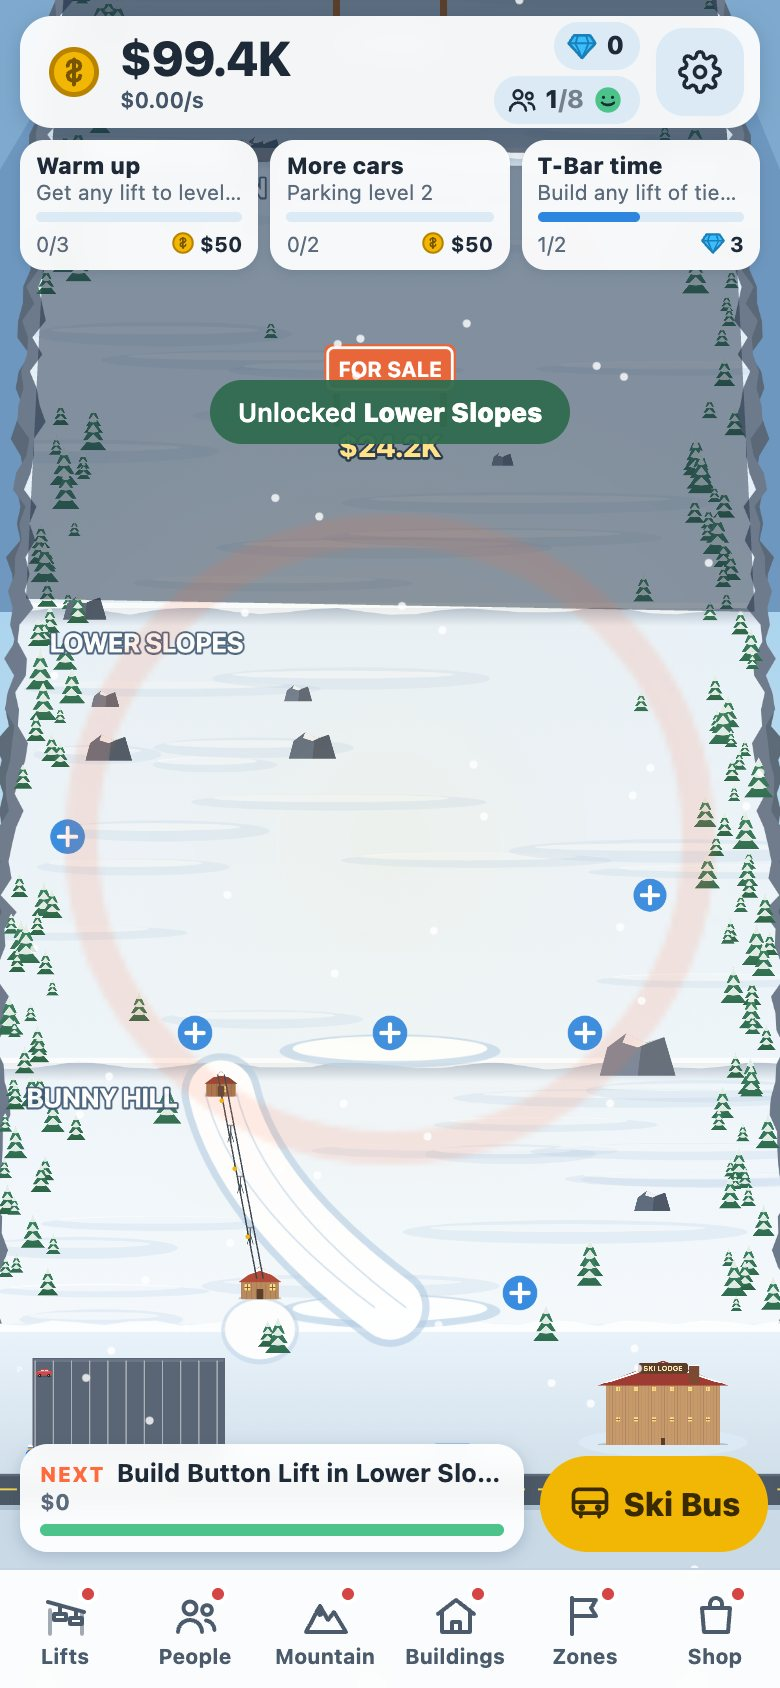
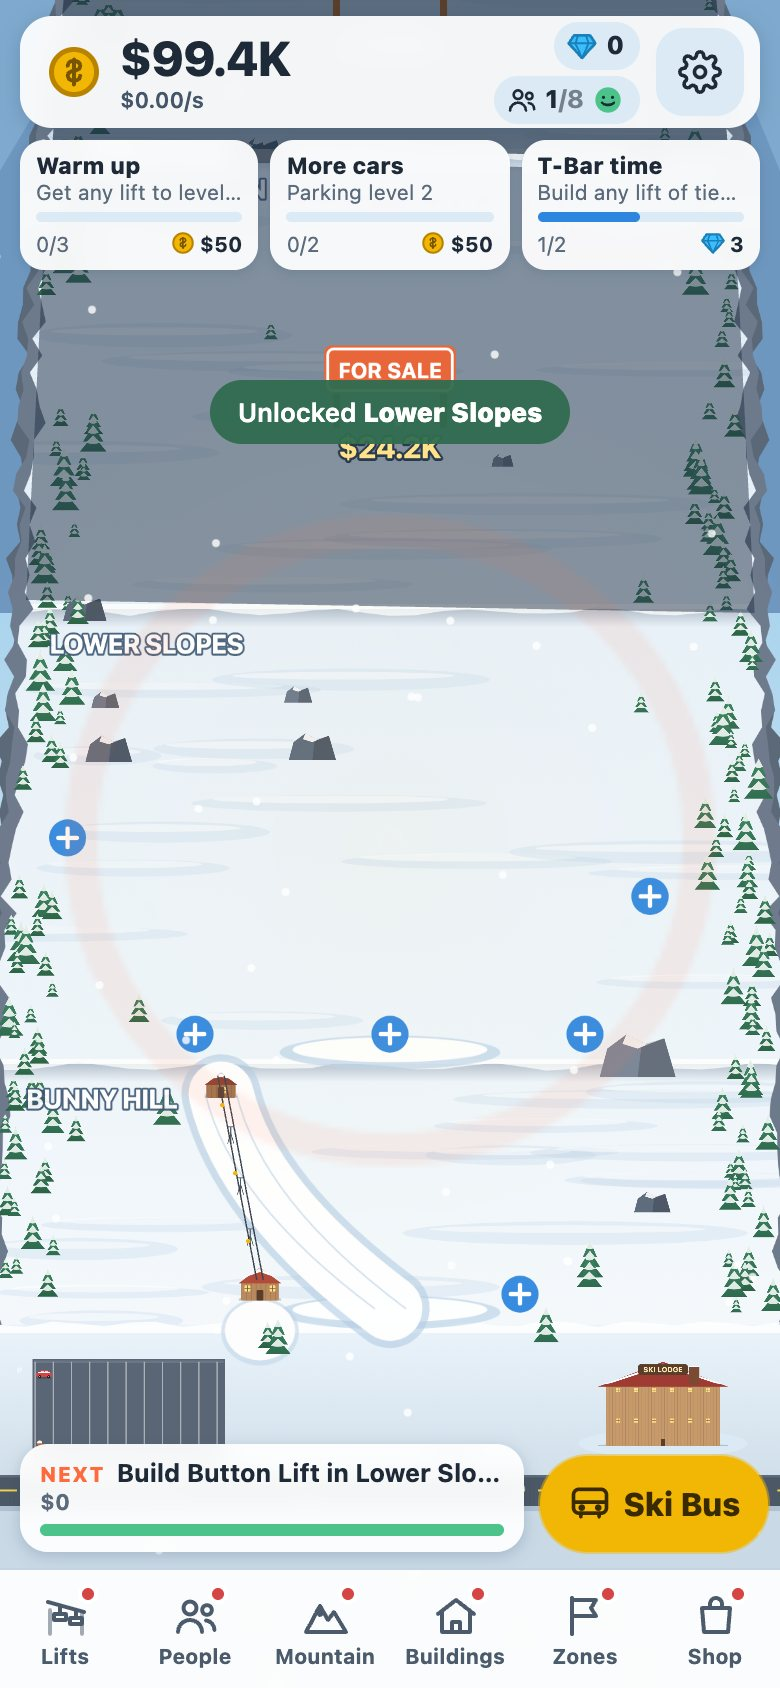
Screenshots: regenerate purchase-feedback shots from final code, fix index tag

diff --git a/screenshots/README.md b/screenshots/README.md
@@ -7,10 +7,10 @@ If you spot something in an early folder that was later removed or changed, the 
 |---|---|---|
 | `m3-map-v1` | `m3-map` | First playable map: fresh game, 7 min, 3 h mid game (bot-played), 40 h late game (glacier, canyon, village) |
 | `m4-ui-v1` | `m4-m6-ui` | HTML overlay: fresh-game tutorial, mid-game HUD, the six sheets (lifts, people, mountain, buildings, zones, shop), menu, welcome-back dialog |
-| `m3-map-v2-atlas` | `m7-polish` | Map after packing every sprite into one texture atlas (perf change, should look identical) |
+| `m3-map-v2-atlas` | `m7-m8-polish-native` | Map after packing every sprite into one texture atlas (perf change, should look identical) |
 | `m7-polish` | `m7-m8-polish-native` | Final polish set: fresh start, early, mid, late (canyon gondola bridge), HUD and all sheets with accessibility tweaks |
 | `options/` | (branches) | Preview shots of the alternative branches: `night-theme-*` from `option/night-theme` (full sets live in that branch under `screenshots/option-night-theme`) |
 | `m7-viewports*` | `m7-m8-polish-native` | Small phone, Android, tablet and desktop widths. `-before` is the stretched desktop layout that was fixed by the phone-width column |
 | `m7-art-tour` | `m7-m8-polish-native` | Close-up of every zone, building, the park's 3 stages, lodge, parking and the ski bus with everything unlocked. Found the zone/lift overlap and the horizontal-pan bug |
 | `final` | latest `main` | Regenerated full set from the final code: fresh start, early, mid, late, HUD, all sheets, menu with the new Stats card |
-| `m7-focus` | `main` | Buying a new area: sheet closes, camera glides to the new territory, ring + glow burst and "Unlocked" toast (`buy-area-burst`, `buy-area-after-glide`) |
+| `m7-focus` | `main` | Buying a new area: sheet closes, camera glides to the new territory, ring + glow burst and "Unlocked" toast (`buy-area-before-sheet`, `buy-area-burst`, `buy-area-after-glide`) |
